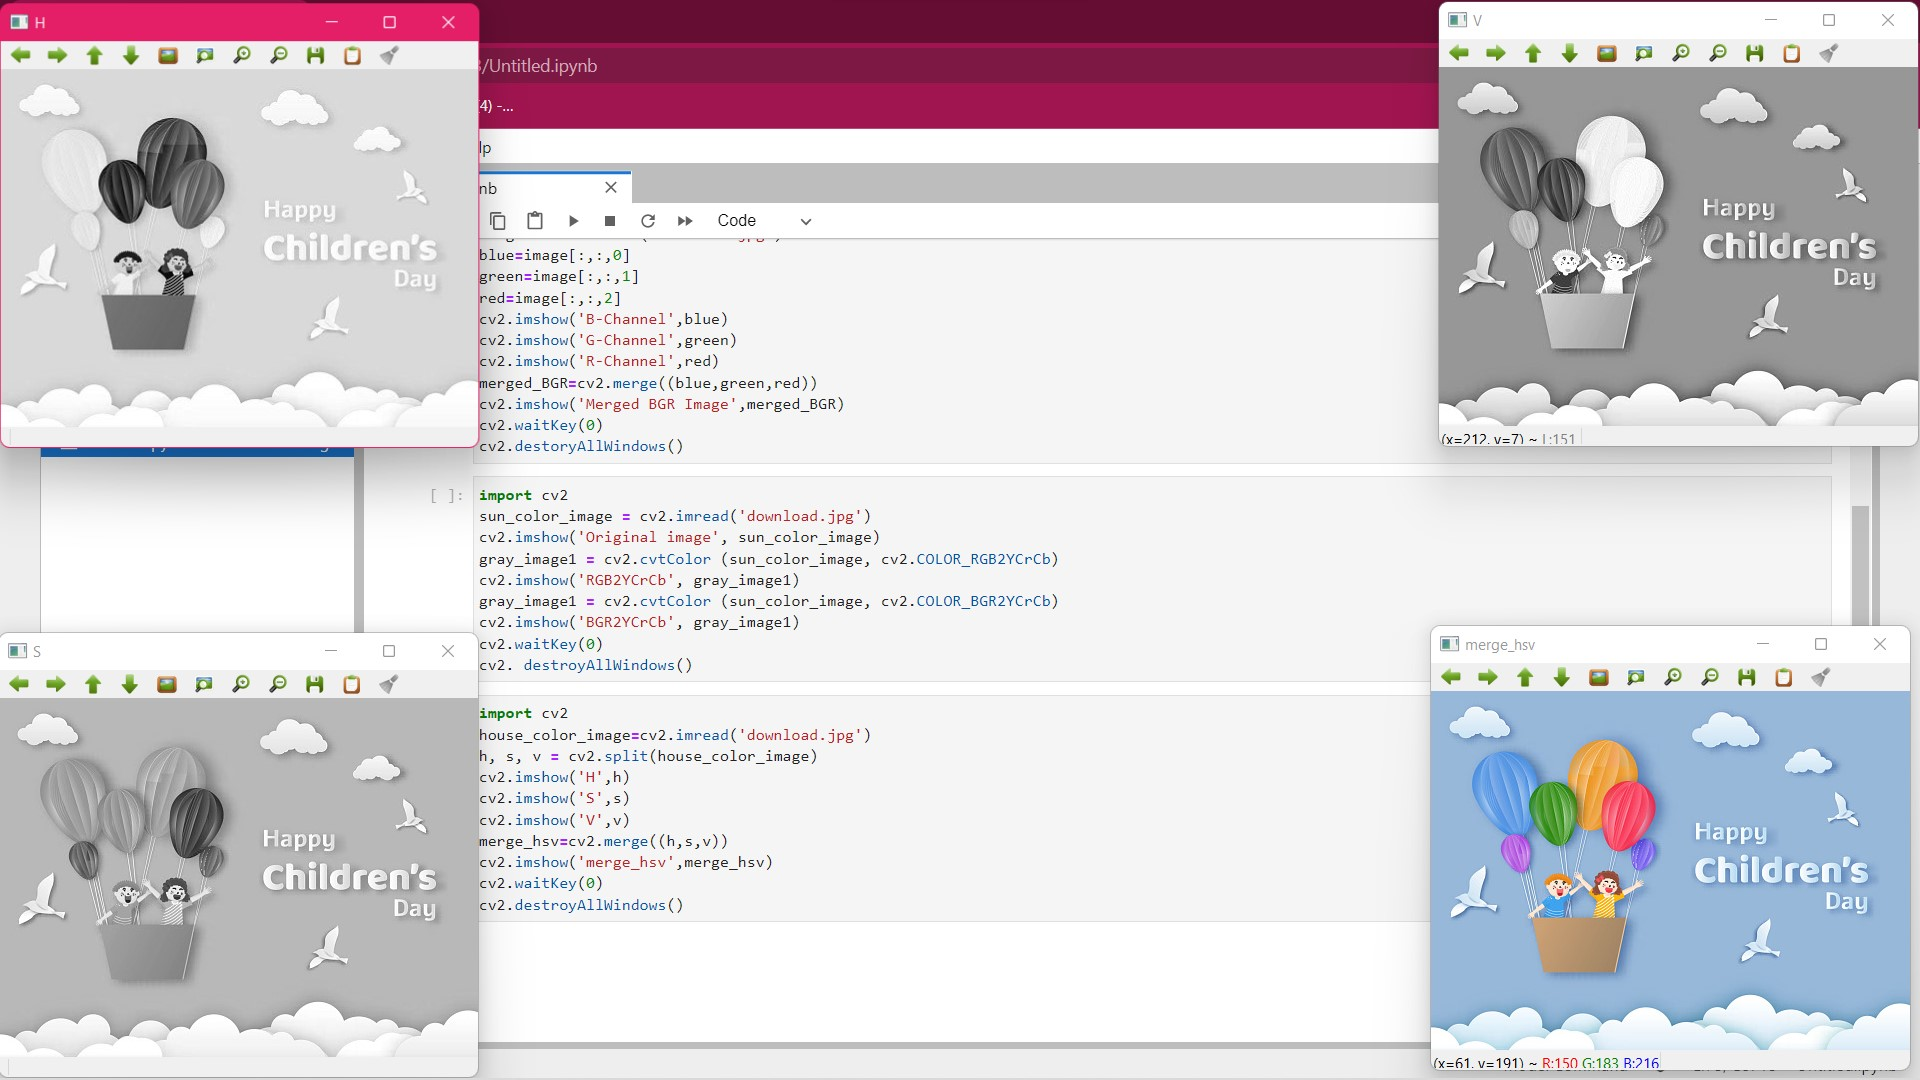
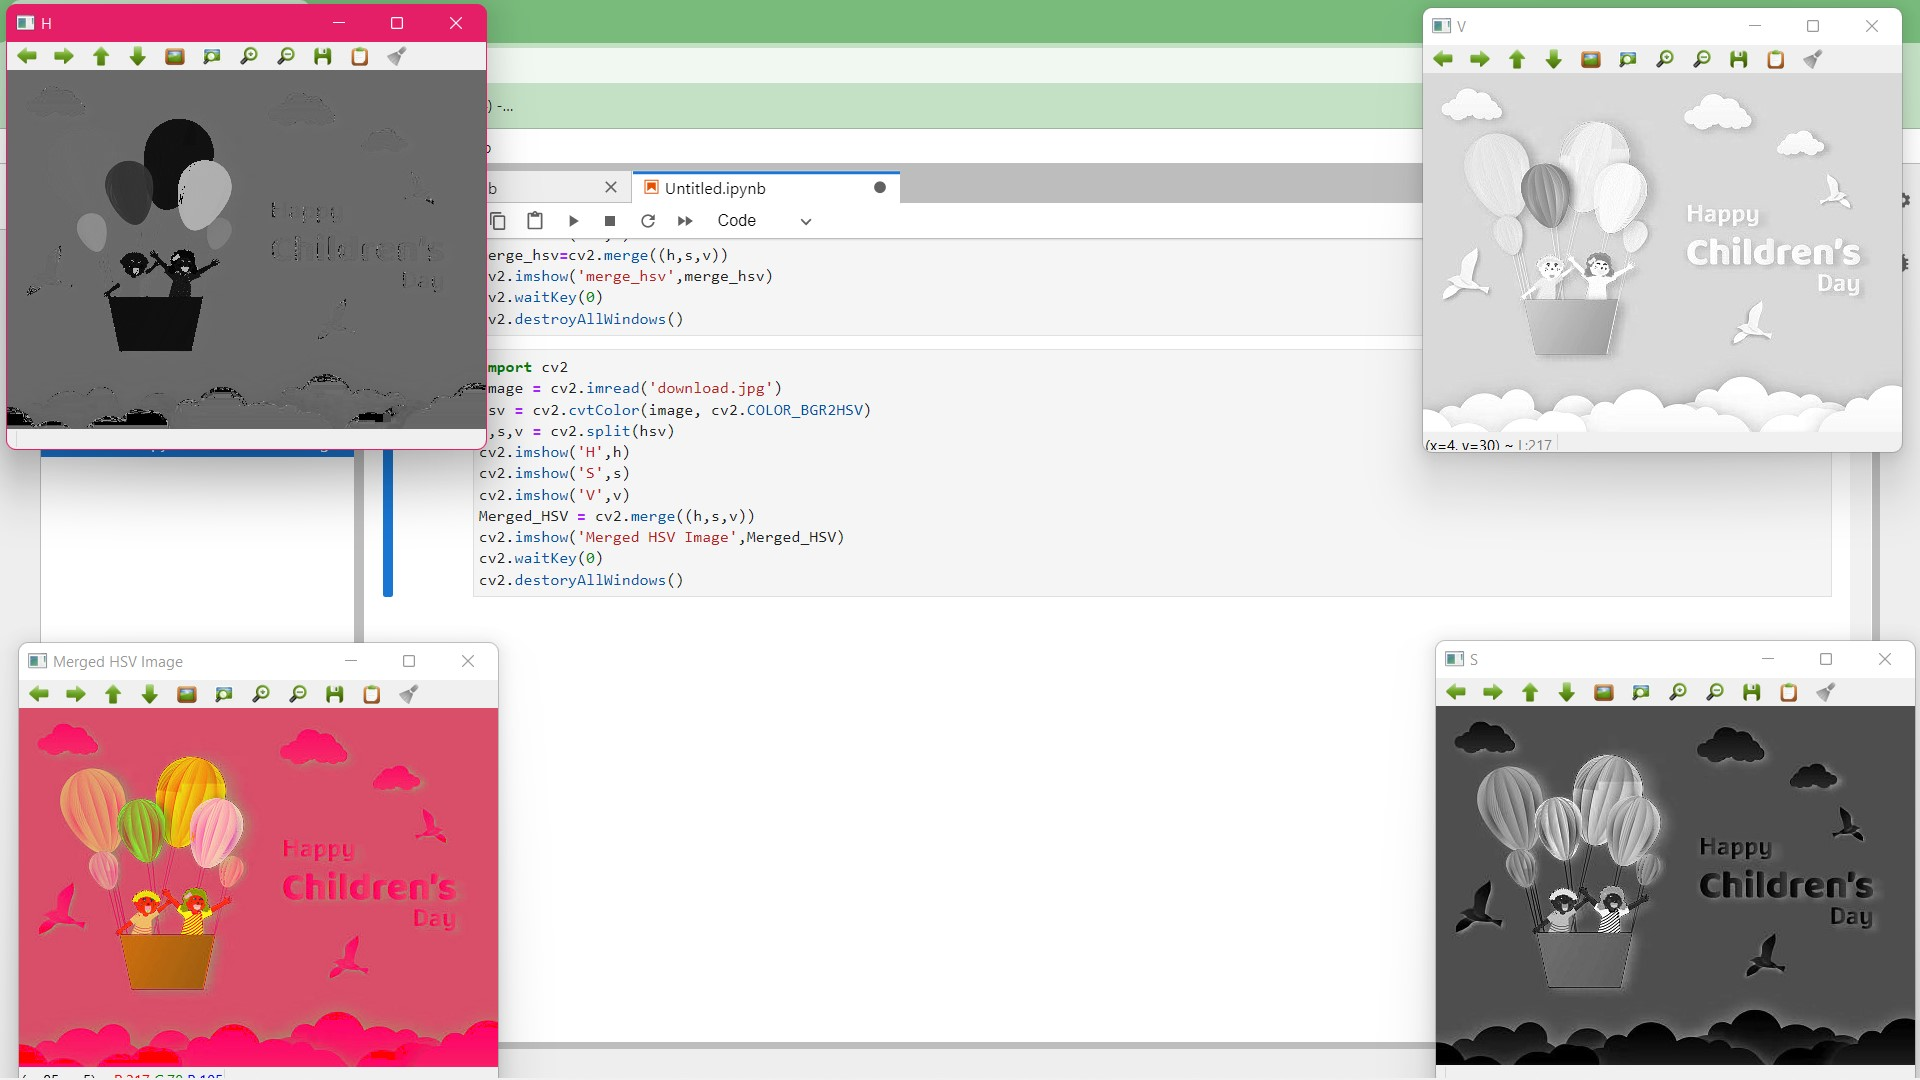
Children

diff --git a/README.md b/README.md
@@ -88,15 +88,16 @@ cv2.destoryAllWindows()
 # v) Split and merge HSV Image
 
 import cv2
-house_color_image=cv2.imread('download.jpg')
-h, s, v = cv2.split(house_color_image)
+image = cv2.imread('download.jpg')
+hsv = cv2.cvtColor(image, cv2.COLOR_BGR2HSV)
+h,s,v = cv2.split(hsv)
 cv2.imshow('H',h)
 cv2.imshow('S',s)
 cv2.imshow('V',v)
-merge_hsv=cv2.merge((h,s,v))
-cv2.imshow('merge_hsv',merge_hsv)
+Merged_HSV = cv2.merge((h,s,v))
+cv2.imshow('Merged HSV Image',Merged_HSV)
 cv2.waitKey(0)
-cv2.destroyAllWindows()
+cv2.destoryAllWindows()
 
 ```
 ## Output:
